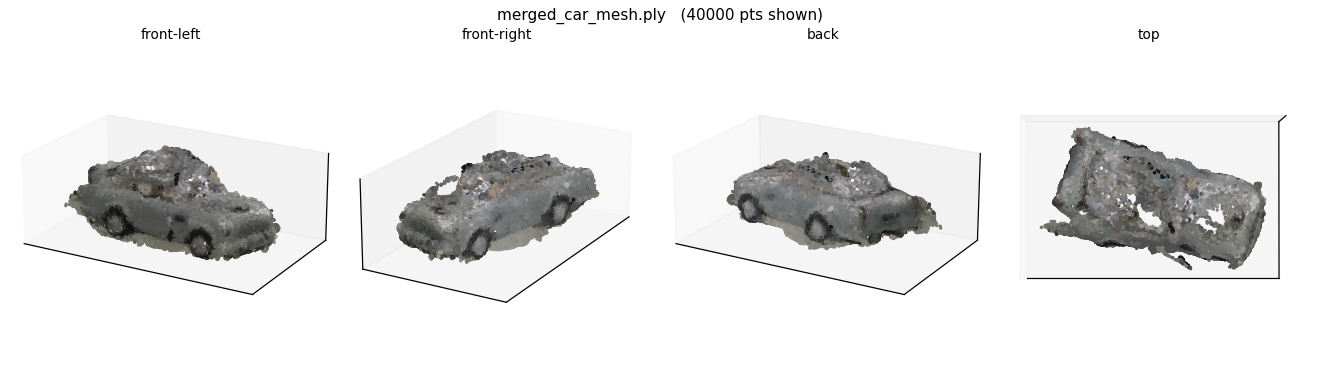
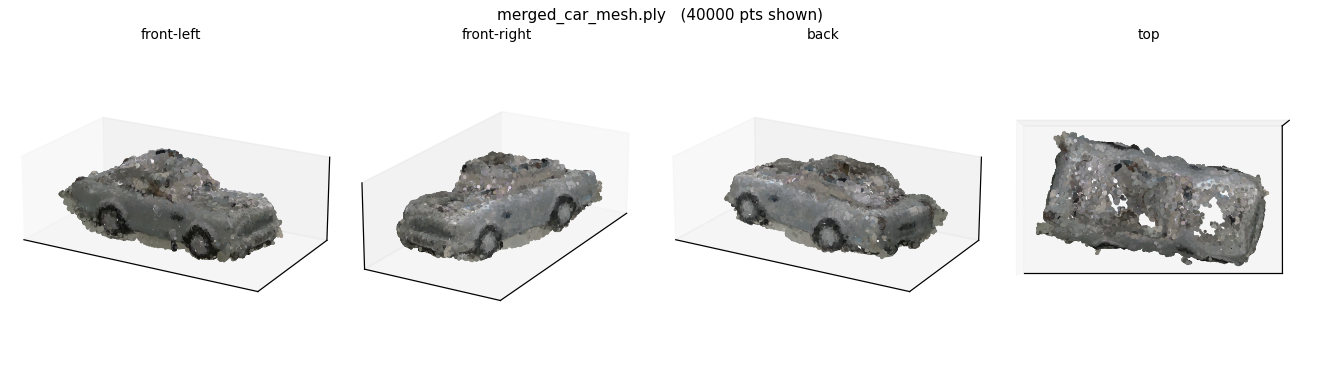
the build

diff --git a/test_code/object_scan/build_object.py b/test_code/object_scan/build_object.py
@@ -64,6 +64,10 @@ reg = o3d.pipelines.registration
 
 WINDOW = 3        # register each view to its next W neighbours (wrapping) -> redundant ring
 FIT_MIN = 0.30    # ICP fitness floor to ACCEPT an edge (rejects fits locked onto noise)
+PRIOR_TOL_DEG = 40  # reject a FEATURE edge whose rotation disagrees with the angle prior by more
+                    # than this — kills ~180 deg "symmetry folds" (a car's two sides look alike, so
+                    # features can mis-lock left<->right and GHOST the car into two places). When a
+                    # feature edge is vetoed we fall back to the prior init (ICP can't jump 180 deg).
 
 
 # ── geometry: the object-centred angle prior (now only a FALLBACK init) ───────────
@@ -133,12 +137,19 @@ def _relative_prior(center, angles, i, j):
     return np.linalg.inv(ry_about(center, angles[j])) @ ry_about(center, angles[i])
 
 
+def _rot_deg_between(Ra, Rb):
+    """Geodesic angle (deg) between two 3x3 rotation matrices."""
+    c = (np.trace(Ra @ Rb.T) - 1.0) / 2.0
+    return float(np.degrees(np.arccos(np.clip(c, -1.0, 1.0))))
+
+
 def build_edges(seg_pcds, shots, center, angles, voxel, window, fit_min,
-                loop=True, force_sift=False, log=print):
+                loop=True, force_sift=False, prior_tol=PRIOR_TOL_DEG, log=print):
     """Windowed, gated edges. For each view i and dj in 1..window, register i to (i+dj)%n:
-    coarse pose from features (register_pair_robust), else the angle prior; refine with ICP;
-    ACCEPT only fits with fitness >= fit_min and a small rmse. Adjacent (and the 0<->n-1 wrap)
-    are odometry edges; the rest are uncertain loop closures.
+    coarse pose from features (register_pair_robust), VETOED if it disagrees with the angle
+    prior by > prior_tol (a symmetry fold), else the angle prior; refine with ICP; ACCEPT only
+    fits with fitness >= fit_min and a small rmse. Adjacent (and the 0<->n-1 wrap) are odometry
+    edges; the rest are uncertain loop closures.
 
     Returns {(a, b): {T (a->b), info, fit, rmse, uncertain}} with a < b.
     """
@@ -147,16 +158,20 @@ def build_edges(seg_pcds, shots, center, angles, voxel, window, fit_min,
     pairs = sorted({(min(i, (i + dj) % n), max(i, (i + dj) % n))
                     for i in range(n) for dj in range(1, window + 1) if (i + dj) % n != i})
     edges = {}
-    n_feat = 0
+    n_feat = n_fold = 0
     for a, b in pairs:
         if not loop and (b - a) > window:                 # a wrap pair across the 360 seam
             continue
+        prior_T = _relative_prior(center, angles, a, b)
         res, det = R.register_pair_robust(shots[a], shots[b], force_sift)
-        if res is not None:
-            init, src = res["T"], "feat-" + det
+        if res is not None and _rot_deg_between(res["T"][:3, :3], prior_T[:3, :3]) <= prior_tol:
+            init, src = res["T"], "feat-" + det          # feature pose agrees with the prior
             n_feat += 1
+        elif res is not None:
+            init, src = prior_T, "prior(fold)"           # feature disagreed -> drop the fold
+            n_fold += 1
         else:
-            init, src = _relative_prior(center, angles, a, b), "prior"
+            init, src = prior_T, "prior"                 # no feature match -> prior
         icp = _icp_refine(seg_pcds[a], seg_pcds[b], init, coarse, fine)
         if icp.fitness < fit_min or not (0.0 < icp.inlier_rmse <= fine):
             log(f"  {a:2d}-{b:2d} [{src}] reject  (fit {icp.fitness:.2f}, "
@@ -172,7 +187,8 @@ def build_edges(seg_pcds, shots, center, angles, voxel, window, fit_min,
                          "fit": icp.fitness, "rmse": icp.inlier_rmse, "uncertain": uncertain}
         log(f"  {a:2d}-{b:2d} [{src}/{'loop' if uncertain else 'odom'}] "
             f"fit {icp.fitness:.2f}, rmse {icp.inlier_rmse * 1000:.0f}mm")
-    log(f"  {len(edges)} edges accepted ({n_feat} feature-measured)")
+    log(f"  {len(edges)} edges accepted ({n_feat} feature-measured, "
+        f"{n_fold} symmetry-folds vetoed -> prior)")
     return edges
 
 
@@ -226,7 +242,7 @@ def solve_and_fuse(seg_pcds, edges, voxel, log=print):
 
 def build(session_dir, voxel=0.003, zmin=seg.ZMIN_DEFAULT, zmax=seg.ZMAX_DEFAULT,
           remove_plane=True, crop=None, loop=True, direction=1, window=WINDOW,
-          fit_min=FIT_MIN, force_sift=False, log=print):
+          fit_min=FIT_MIN, force_sift=False, prior_tol=PRIOR_TOL_DEG, log=print):
     """Segment, measure+verify windowed edges, robustly optimize, fuse -> merged_object.ply.
 
     direction: sign of the turn between shots, used only for the prior FALLBACK init.
@@ -275,7 +291,7 @@ def build(session_dir, voxel=0.003, zmin=seg.ZMIN_DEFAULT, zmax=seg.ZMAX_DEFAULT
     log(f"  registering (window={window}, fit>={fit_min}, "
         f"{'ring + loop' if loop else 'open chain'})...")
     edges = build_edges(seg_pcds, shots, center, angles, voxel, window, fit_min,
-                        loop=loop, force_sift=force_sift, log=log)
+                        loop=loop, force_sift=force_sift, prior_tol=prior_tol, log=log)
     if not edges:
         sys.exit("no edges survived gating — object too smooth/dark, or too little overlap. "
                  "Try --sift, a tighter depth gate (--object), or recapture with more overlap.")
@@ -321,6 +337,7 @@ def _main():
     direction = _pop(args, "--dir", int) or 1
     window = _pop(args, "--win", int) or WINDOW
     fit_min = _pop(args, "--fit-min", float) or FIT_MIN
+    prior_tol = _pop(args, "--prior-tol", float) or PRIOR_TOL_DEG
 
     if obj:                                   # --object preset fills any unset knob
         import config
@@ -338,7 +355,8 @@ def _main():
                  "[--voxel 0.003] [--crop 0.15] [--zmax 0.45] [--dir -1] [--win 3] "
                  "[--fit-min 0.3] [--sift] [--no-loop] [--mesh]")
     out = build(args[0], voxel=voxel, zmin=zmin, zmax=zmax, crop=crop, loop=loop,
-                direction=direction, window=window, fit_min=fit_min, force_sift=force_sift)
+                direction=direction, window=window, fit_min=fit_min, force_sift=force_sift,
+                prior_tol=prior_tol)
     if do_mesh:
         import mesh
         mesh.poisson_mesh(out)